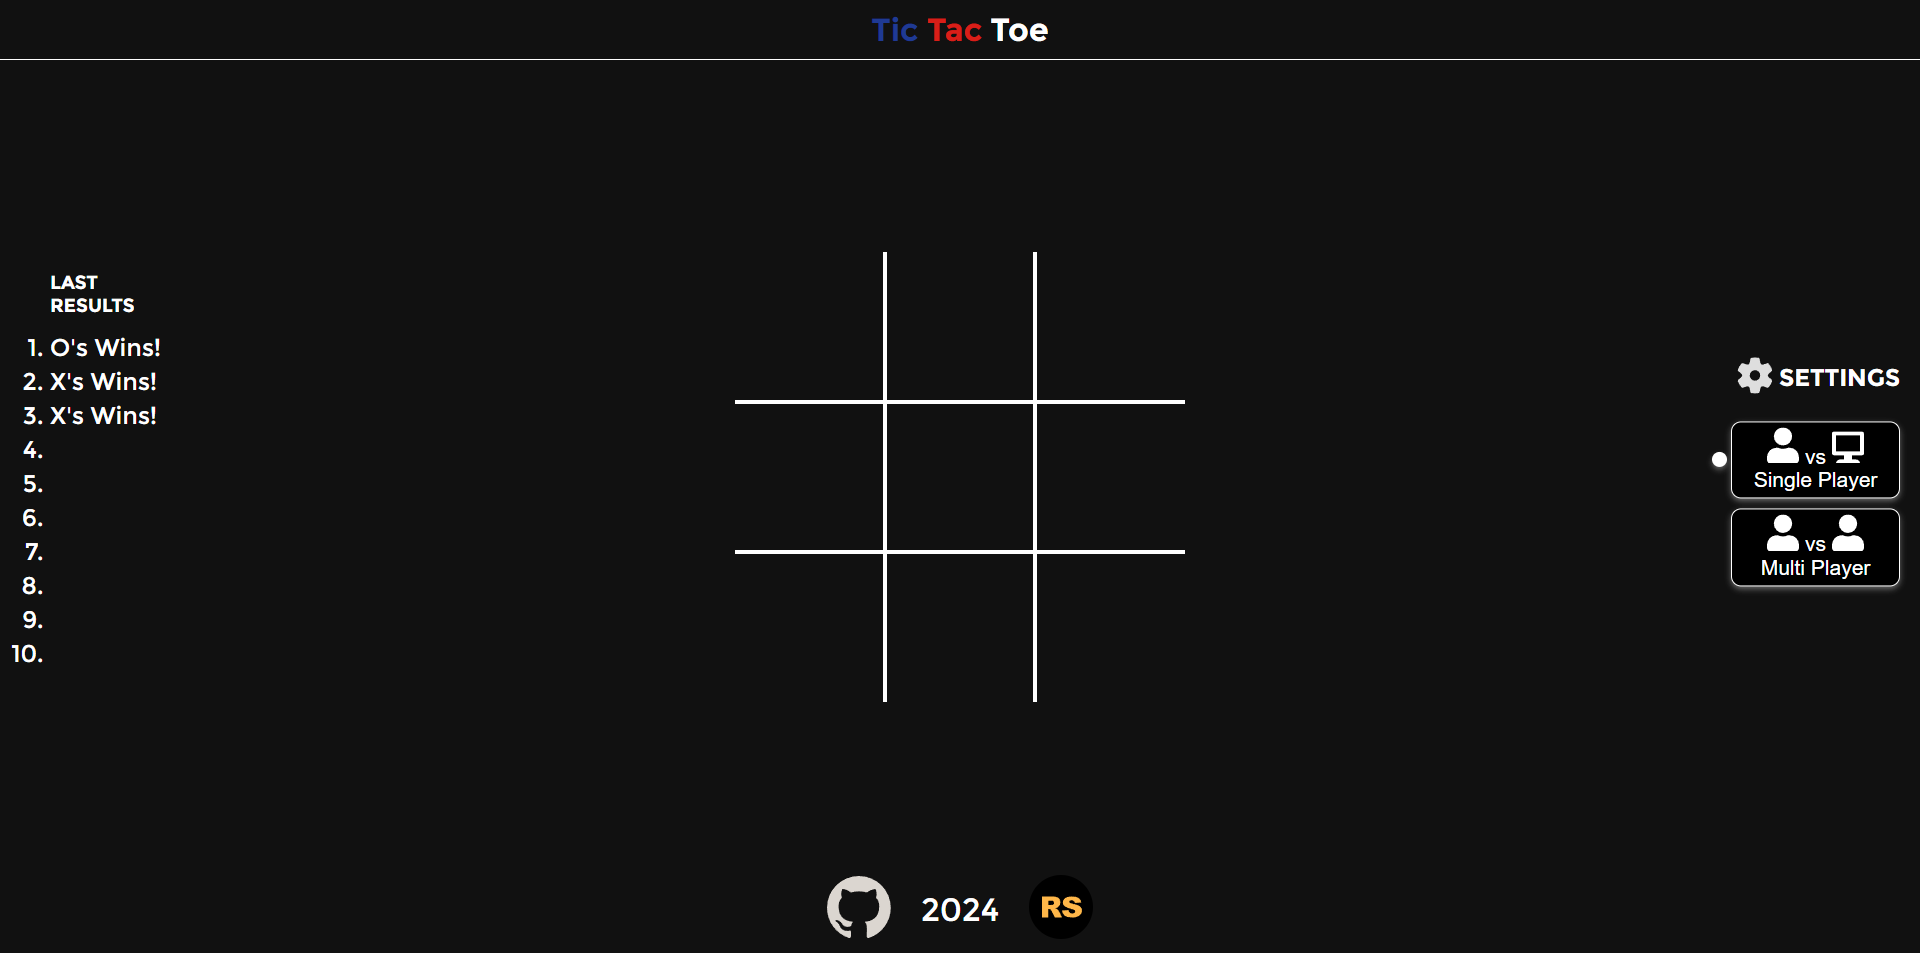
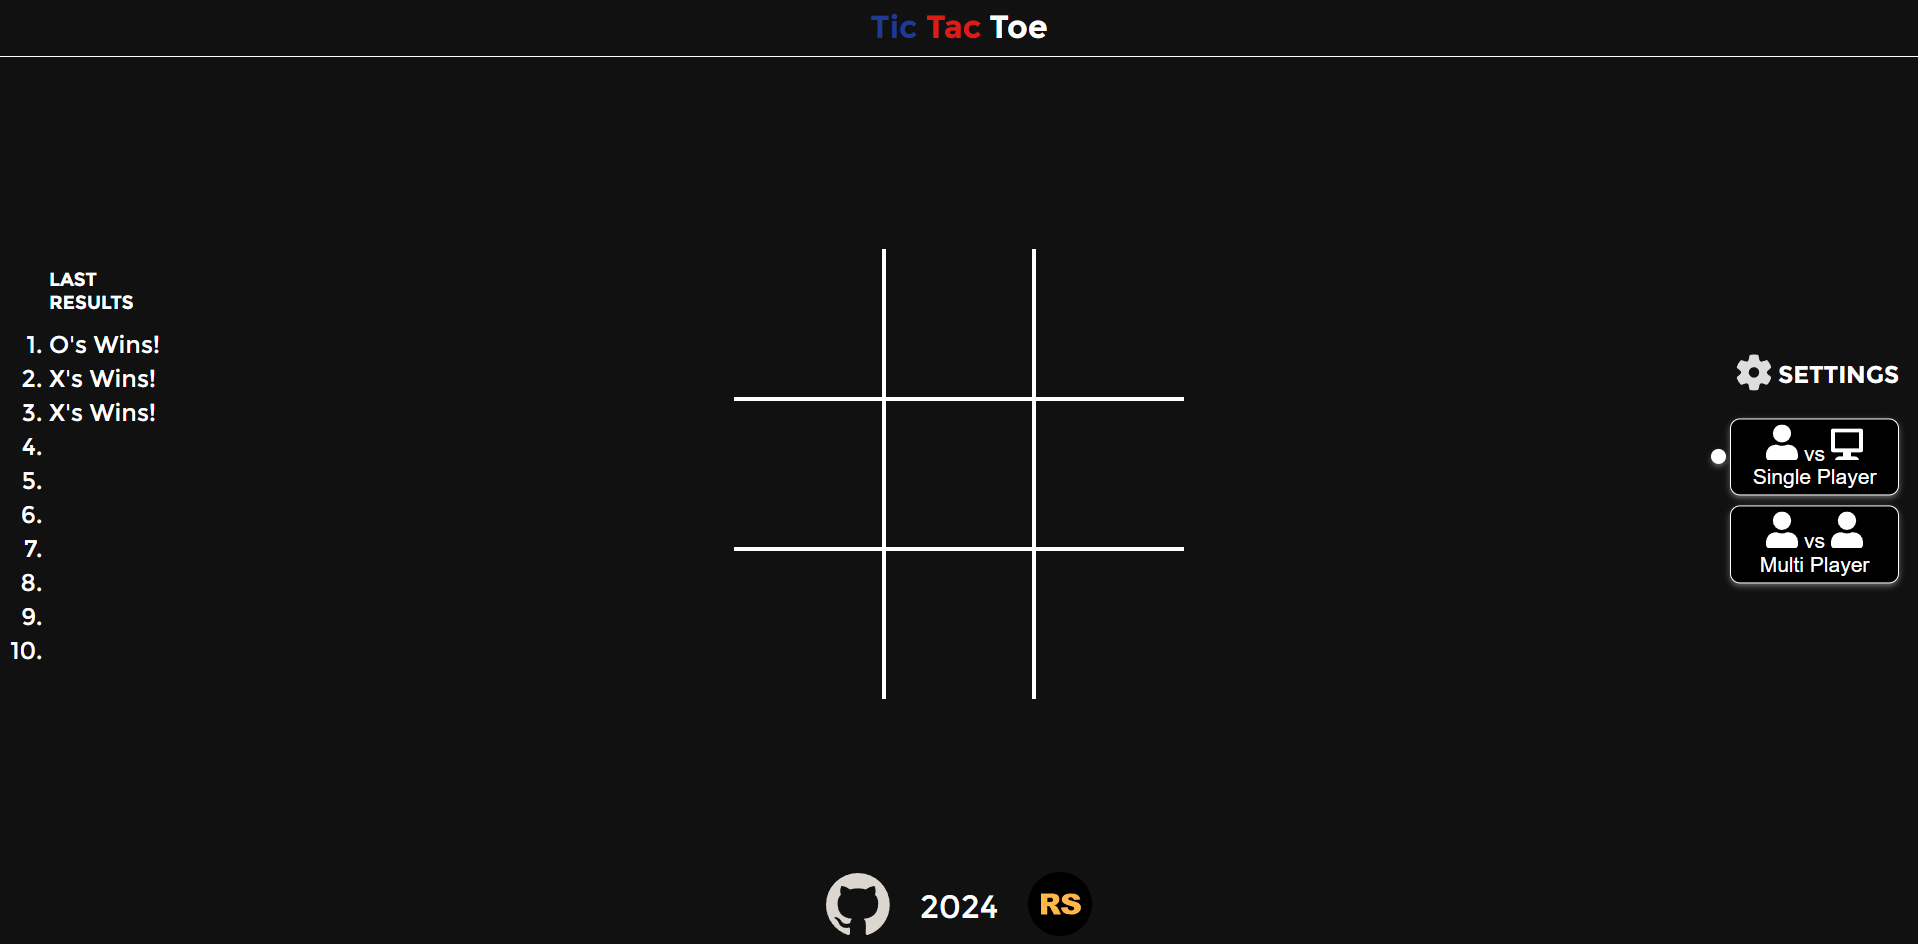
fix: change projects

diff --git a/index.html b/index.html
@@ -314,22 +314,24 @@
         <div class="projects__inner">
           <ul class="projects__list">
             <li class="projects__list-item">
-              <a href="https://azizshik.github.io/50Days50Projects/17Day-MovieApp/" class="projects__list-item-link">
-                <img src="img/movieApp.png" alt="Project">
-                <h3 class="title">Movie App</h3>
-              </a>
-            </li>
-            <li class="projects__list-item">
-              <a href="https://azizshik.github.io/50Days50Projects/3Day-RotatingNavigation/"
+              <a href="https://rolling-scopes-school.github.io/azizshik-JSFEPRESCHOOL2024Q2/shelter/pages/main/"
                 class="projects__list-item-link">
-                <img src="img/navbar.png" alt="Project">
-                <h3 class="title">Rotating NavBar</h3>
+                <img src="img/shelter.png" alt="Project">
+                <h3 class="title">Shelter</h3>
               </a>
             </li>
             <li class="projects__list-item">
-              <a href="https://azizshik.github.io/50Days50Projects/19Day-ThemeClock/" class="projects__list-item-link">
-                <img src="img/clock.png" alt="Project">
-                <h3 class="title">DarkMode Clock</h3>
+              <a href="https://rolling-scopes-school.github.io/azizshik-JSFEPRESCHOOL2024Q2/random-game/"
+                class="projects__list-item-link">
+                <img src="img/tic-tac-toe.png" alt="Project">
+                <h3 class="title">Tic Tac Toe</h3>
+              </a>
+            </li>
+            <li class="projects__list-item">
+              <a href="https://rolling-scopes-school.github.io/azizshik-JSFEPRESCHOOL2024Q2/image-gallery/"
+                class="projects__list-item-link">
+                <img src="img/unsplash.png" alt="Project">
+                <h3 class="title">Image Gallery</h3>
               </a>
             </li>
           </ul>

diff --git a/css/style.css b/css/style.css
@@ -286,6 +286,7 @@ h3 {
 	width: 100%;
 	height: 400px;
 	object-fit: cover;
+	object-position: top;
 	border-radius: 10px;
 	vertical-align: top;
 	box-shadow: 0 3px 6px rgba(255, 255, 255, 0.16),
